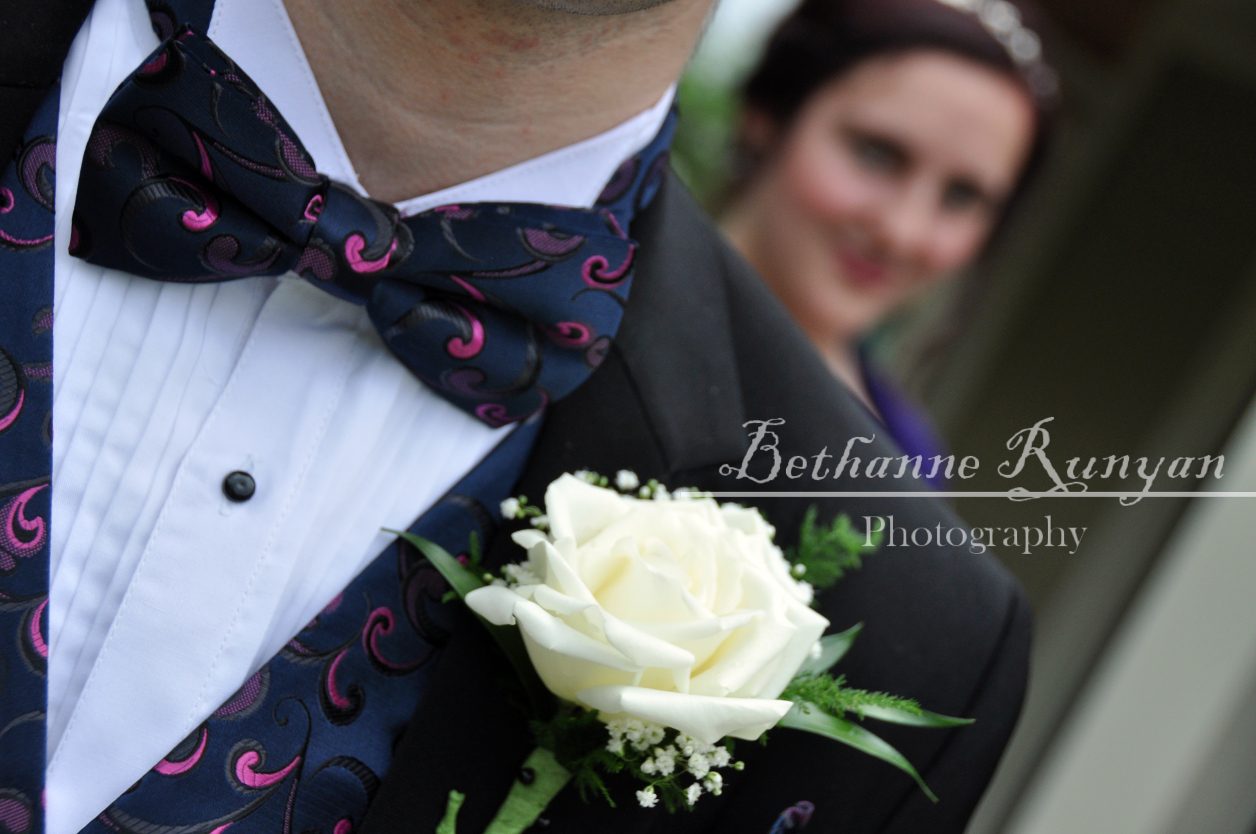
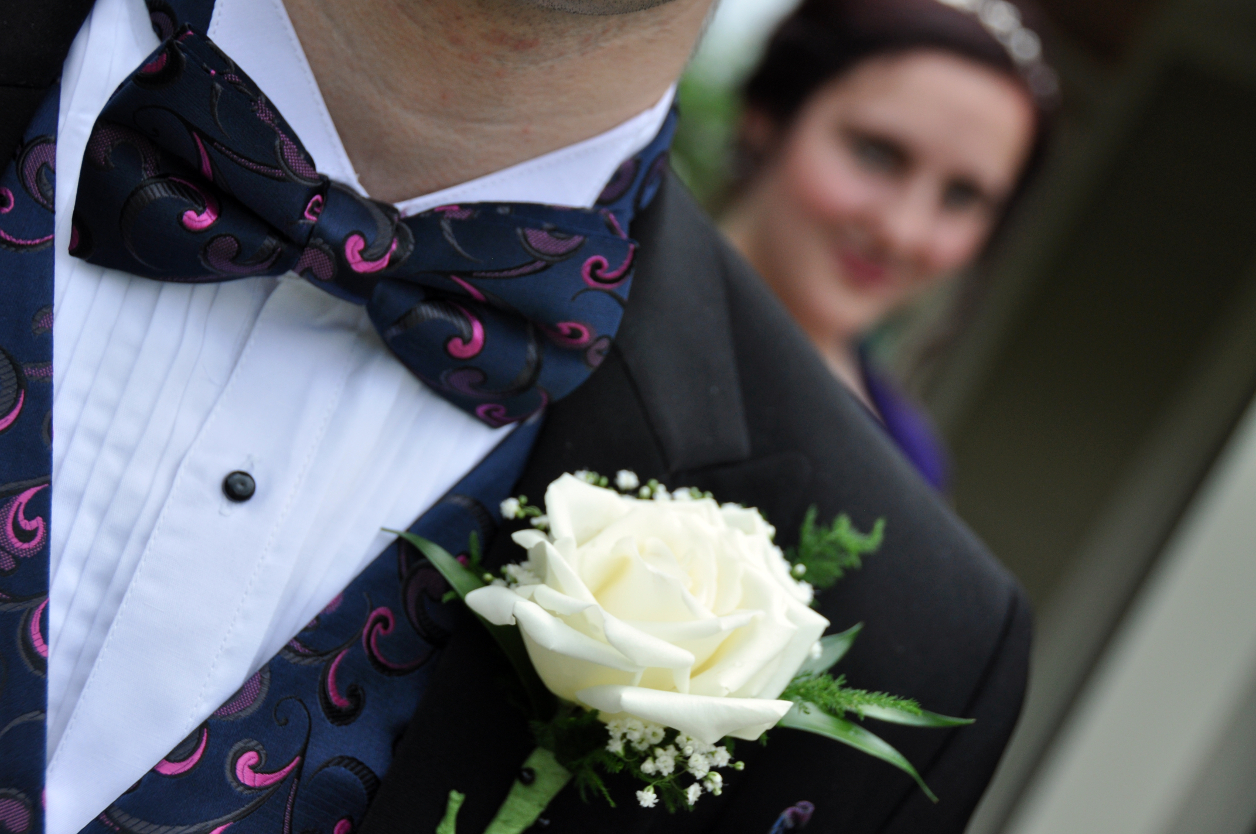
Adding images without watermark

Changed region(s): [[0.5589, 0.4988, 1.0, 0.6547]]

diff --git a/src/components/front/Front.js b/src/components/front/Front.js
@@ -8,7 +8,8 @@ var images = [
   require('../../images/scrolling/image1.jpg'),
   require('../../images/scrolling/image2.jpg'),
   require('../../images/scrolling/image3.jpg'),
-  require('../../images/scrolling/image4.jpg')
+  require('../../images/scrolling/image4.jpg'),
+  require('../../images/scrolling/image5.jpg')
 ];
 
 var Front = React.createClass({

diff --git a/src/components/BrunyanphotoApp.js b/src/components/BrunyanphotoApp.js
@@ -1,6 +1,6 @@
 'use strict';
 
-var React = require('react/addons');
+var React = require('react');
 var Router = require('react-router');
 var RouteHandler = Router.RouteHandler;
 
